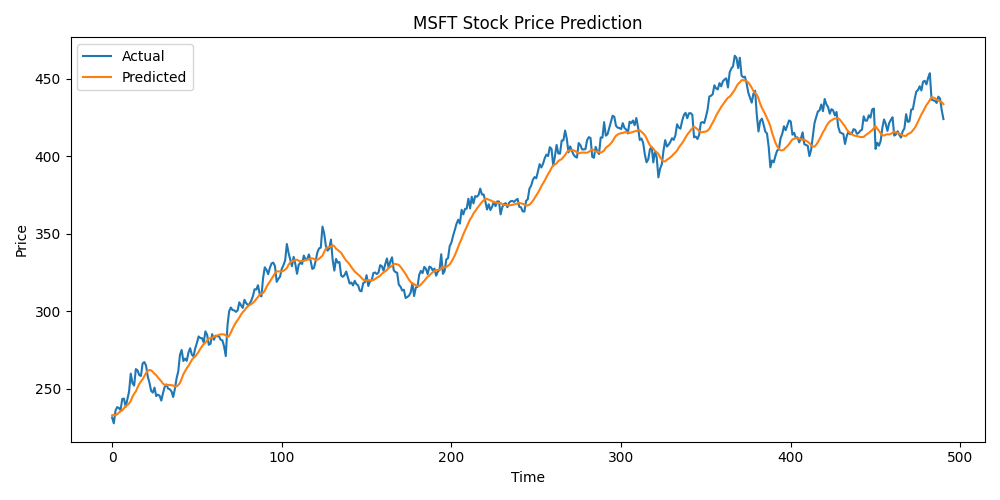
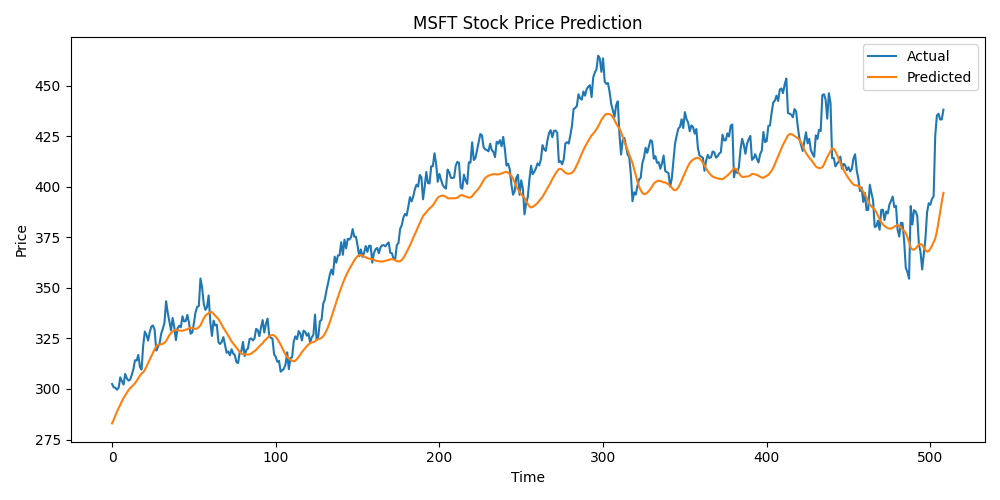
changed dates to today and modified css

diff --git a/templates/index.html b/templates/index.html
@@ -1,24 +1,65 @@
 <!DOCTYPE html>
-<html>
+<html lang="en">
 <head>
+    <meta charset="UTF-8">
+    <meta name="viewport" content="width=device-width, initial-scale=1.0">
     <title>Stock Price Predictor</title>
     <link rel="stylesheet" href="{{ url_for('static', filename='style.css') }}">
+    <!-- Add Bootstrap for better styling -->
+    <link href="https://cdn.jsdelivr.net/npm/bootstrap@5.3.0/dist/css/bootstrap.min.css" rel="stylesheet">
+    <!-- Add Font Awesome for icons -->
+    <link rel="stylesheet" href="https://cdnjs.cloudflare.com/ajax/libs/font-awesome/6.0.0/css/all.min.css">
 </head>
-<body>
-    <h1>Stock Price Prediction with LSTM</h1>
-    <form method="post">
-        <label for="ticker">Enter Stock Ticker:</label>
-        <input type="text" id="ticker" name="ticker" required>
-        <button type="submit">Predict</button>
-    </form>
+<body class="bg-light">
+    <div class="container py-5">
+        <div class="row justify-content-center">
+            <div class="col-md-8">
+                <div class="card shadow">
+                    <div class="card-body">
+                        <h1 class="text-center mb-4">Stock Price Prediction with LSTM</h1>
+                        
+                        <form method="post" class="mb-4">
+                            <div class="input-group">
+                                <span class="input-group-text">
+                                    <i class="fas fa-chart-line"></i>
+                                </span>
+                                <input type="text" 
+                                       id="ticker" 
+                                       name="ticker" 
+                                       class="form-control" 
+                                       placeholder="Enter stock ticker (e.g., AAPL)" 
+                                       required>
+                                <button type="submit" class="btn btn-primary">
+                                    <i class="fas fa-search"></i> Predict
+                                </button>
+                            </div>
+                        </form>
 
-    {% if image %}
-        <h2>Prediction for {{ ticker }}</h2>
-        <img src="{{ image }}" alt="Prediction Plot">
-    {% endif %}
+                        {% if image %}
+                            <div class="prediction-result">
+                                <h2 class="text-center mb-3">Prediction for {{ ticker }}</h2>
+                                <div class="text-center">
+                                    <img src="{{ image }}" 
+                                         alt="Prediction Plot" 
+                                         class="img-fluid rounded shadow">
+                                </div>
+                            </div>
+                        {% endif %}
 
-    {% if error %}
-        <p style="color: red;">Error: {{ error }}</p>
-    {% endif %}
+                        {% if error %}
+                            <div class="alert alert-danger mt-3" role="alert">
+                                <i class="fas fa-exclamation-circle"></i>
+                                Error: {{ error }}
+                            </div>
+                        {% endif %}
+                    </div>
+                </div>
+            </div>
+        </div>
+    </div>
+
+    <!-- Add Bootstrap JS and Popper.js -->
+    <script src="https://cdn.jsdelivr.net/npm/@popperjs/core@2.11.6/dist/umd/popper.min.js"></script>
+    <script src="https://cdn.jsdelivr.net/npm/bootstrap@5.3.0/dist/js/bootstrap.min.js"></script>
 </body>
 </html>

diff --git a/static/style.css b/static/style.css
@@ -56,3 +56,26 @@ img {
     color: red;
     margin-top: 15px;
 }
+
+@media (prefers-color-scheme: dark) {
+    body {
+        background: #f4f6f8;
+        color: #333;
+    }
+    
+    .container {
+        background: white;
+        box-shadow: 0px 0px 20px rgba(0,0,0,0.1);
+    }
+    
+    input[type="text"] {
+        background: #3d3d3d;
+        border-color: #4d4d4d;
+        color: #ffffff;
+    }
+    
+    .error {
+        background-color: #3d1a1a;
+        border-color: #4d2a2a;
+    }
+}

diff --git a/app.py b/app.py
@@ -9,6 +9,7 @@ from sklearn.preprocessing import MinMaxScaler
 from tensorflow.keras.models import Sequential
 from tensorflow.keras.layers import LSTM, Dense
 import os
+from datetime import datetime
 
 app = Flask(__name__)
 
@@ -17,7 +18,7 @@ def index():
     if request.method == 'POST':
         ticker = request.form['ticker'].upper()
         try:
-            df = yf.download(ticker, start='2015-01-01', end='2024-12-31')
+            df = yf.download(ticker, start='2015-01-01', end=datetime.now().strftime('%Y-%m-%d'))
             data = df[['Close']]
 
             # Scale data
